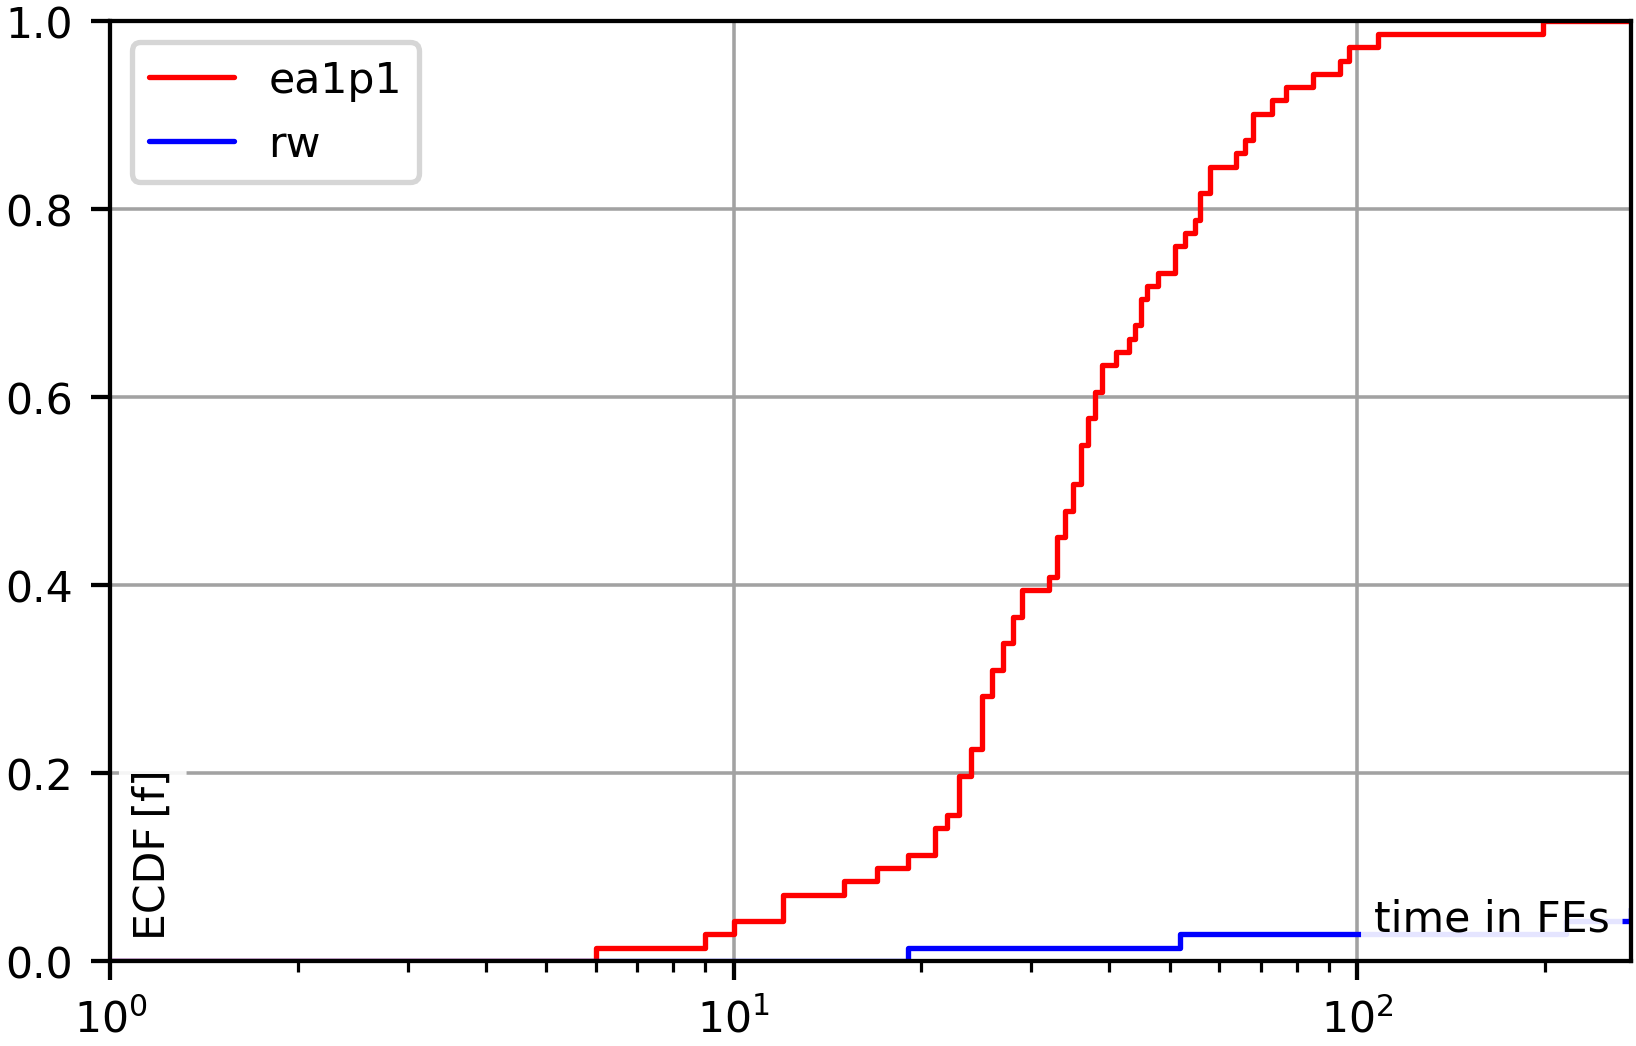
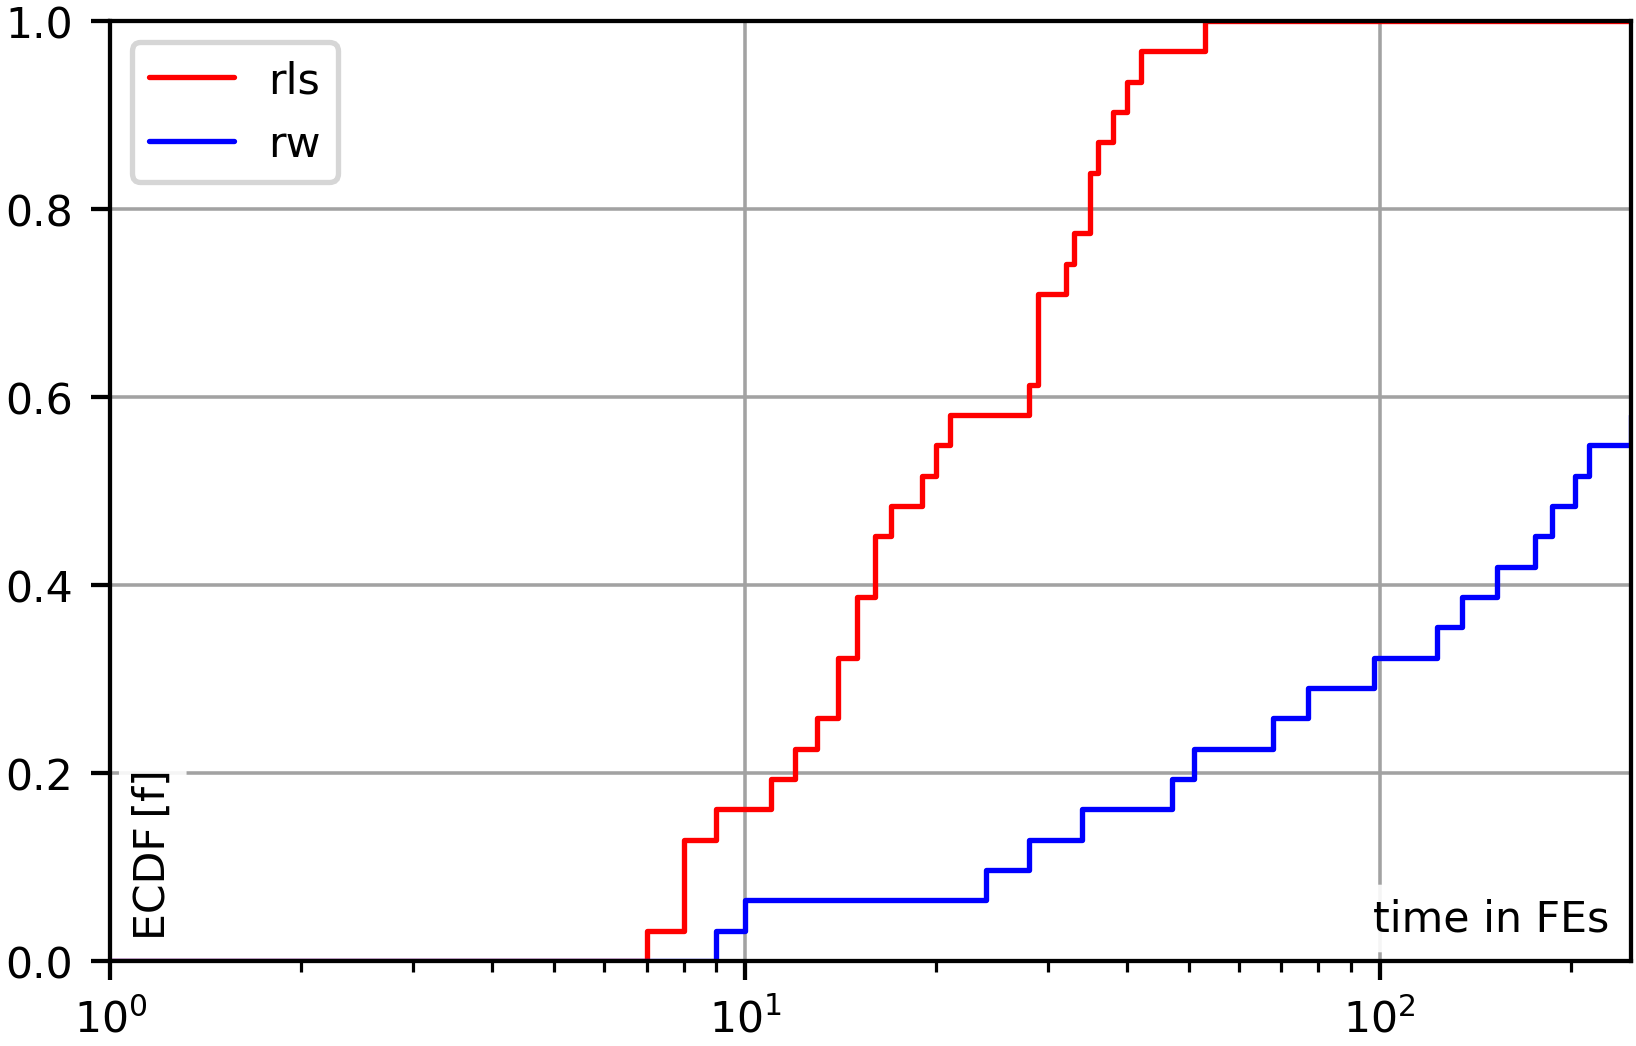
finished renaming (1+1)-EA to RLS

diff --git a/examples/progress_plot.py b/examples/progress_plot.py
@@ -144,7 +144,7 @@ with TempDir.create() as td:  # create temporary directory `td`
     # and different problems.
     # It will also automatically pick the labels of the axes and choose
     # that the horizontal axis (FEs) be log-scaled.
-    fig = create_figure()  # create an empty figure
+    fig = create_figure(width=4)  # create an empty, 4"-wide figure
     plot_progress(progresses=data,  # plot all the data
                   figure=fig)  # into the figure
     # Notice that save_figure returns a list of files that has been generated.
@@ -164,7 +164,7 @@ with TempDir.create() as td:  # create temporary directory `td`
     # This will still use both algorithms.
     # The system will again choose styles to make the curves distinguishable
     # and will log-scale the horizontal axes.
-    fig = create_figure()  # create an empty figure
+    fig = create_figure(width=4)  # create an empty, 4"-wide figure
     plot_progress(progresses=[r for r in data  # plot selection of data
                               if ("onemax" in r.instance)],  # only OneMax
                   figure=fig)  # plot into figure fig
@@ -178,7 +178,7 @@ with TempDir.create() as td:  # create temporary directory `td`
     # We now plot only the runs of the RLS, but for both problems.
     # The system will again choose styles to make the curves distinguishable
     # and will log-scale the horizontal axes.
-    fig = create_figure()  # create an empty figure
+    fig = create_figure(width=4)  # create an empty, 4"-wide figure
     plot_progress(progresses=[r for r in data if ("rls" in r.algorithm)],
                   figure=fig)
     # This time, we save three files: a svg, a pdf, and a png. Later all
@@ -198,7 +198,7 @@ with TempDir.create() as td:  # create temporary directory `td`
     StatRun.from_progress(source=list(data),  # iterate over _copy_ of data
                           statistics="mean",  # compute the mean f over FEs
                           consumer=data.append)  # and store to data list
-    fig = create_figure()  # create empty figure
+    fig = create_figure(width=4)  # create a 4"-wide, empty figure
     # We now plot the single runs AND the mean result quality over time into
     # the same diagram. Notice that the system will again automatically choose
     # an appropriate style.
@@ -209,7 +209,7 @@ with TempDir.create() as td:  # create temporary directory `td`
                              formats="svg"))
     del fig  # dispose figure
 
-    fig = create_figure()  # create empty figure
+    fig = create_figure(width=4)  # create a 4"-wide, empty figure
     # We now create the same plot again, but this time we do not log-scale
     # the horizontal (FEs) axis.
     plot_progress(progresses=data, figure=fig,
@@ -219,7 +219,7 @@ with TempDir.create() as td:  # create temporary directory `td`
                              dir_name=td, formats=("pdf", "svg")))
     del fig  # dispose figure
 
-    fig = create_figure()  # create empty figure
+    fig = create_figure(width=4)  # create an empty, 4"-wide figure
     # This time we only plot the arithmetic mean runs.
     # We generate a pdf and a svg.
     plot_progress(progresses=[d for d in data if isinstance(d, StatRun)],

diff --git a/examples/ecdf_plot.py b/examples/ecdf_plot.py
@@ -84,8 +84,8 @@ ns = lambda prc: False if prc is None else (  # noqa: E731
 # should we show the plots?
 SHOW_PLOTS_IN_BROWSER = not ns(psutil.Process(os.getppid()))
 
-# We try to solve only the 12-bit OneMax problem
-problems = [lambda: OneMax(12)]
+# We try to solve only the 8-bit OneMax problem
+problems = [lambda: OneMax(8)]
 
 
 def make_rls(problem) -> Execution:
@@ -102,7 +102,7 @@ def make_rls(problem) -> Execution:
         Op0Random(),  # starts with a random bit string and
         Op1MoverNflip(n=problem.n, m=1),  # flips each bit with p=1/n
         op1_is_default=True))  # don't include op1 in algorithm name str
-    ex.set_max_fes(100)  # permit 100 FEs
+    ex.set_max_fes(256)  # permit 256 FEs
     ex.set_log_improvements(True)  # log the progress!
     return ex
 
@@ -122,7 +122,7 @@ def make_random_walk(problem) -> Execution:
             Op0Random(),  # starts with a random bit string and
             Op1MoverNflip(n=problem.n, m=1),  # flips each bit with p=1/n
             op1_is_default=True))  # don't include op1 in algorithm name str
-    ex.set_max_fes(100)  # permit 100 FEs
+    ex.set_max_fes(256)  # permit 256 FEs
     ex.set_log_improvements(True)  # log the progress!
     return ex
 
@@ -154,7 +154,7 @@ with TempDir.create() as td:  # create temporary directory `td`
     # Plot the ECDF functions.
     # This function will automatically pick the labels of the axes and choose
     # that the horizontal axis (FEs) be log-scaled.
-    fig = create_figure()  # create an empty figure
+    fig = create_figure(width=4)  # create an empty, 4"-wide figure
     plot_ecdf(ecdfs=ecdf,  # plot all the data
               figure=fig)  # into the figure
     # Notice that save_figure returns a list of files that has been generated.
@@ -171,7 +171,7 @@ with TempDir.create() as td:  # create temporary directory `td`
     del fig  # dispose figure
 
     # Plot the ECDF functions, but this time do not log-scale the x-axis.
-    fig = create_figure()  # create an empty figure
+    fig = create_figure(width=4)  # create an empty, 4"-wide figure
     plot_ecdf(ecdfs=ecdf,  # plot all the data
               figure=fig,  # into the figure
               x_axis=AxisRanger.for_axis("FEs", log_scale=False))

diff --git a/examples/end_results_plot.py b/examples/end_results_plot.py
@@ -125,7 +125,7 @@ with TempDir.create() as td:  # create temporary directory `td`
 
     # Plot the end results in a scaled fashion: All objective values are
     # divided by the lower bound. Therefore, 1 is optimal.
-    fig = create_figure()  # create an empty figure
+    fig = create_figure(width=4)  # create an empty, 4"-wide figure
     plot_end_results(end_results=data,
                      figure=fig,
                      dimension="scaledF")
@@ -144,7 +144,7 @@ with TempDir.create() as td:  # create temporary directory `td`
 
     # Plot the end results in an un-scaled fashion: All objective values are
     # used as is. This makes the problems less comparable.
-    fig = create_figure()  # create an empty figure
+    fig = create_figure(width=4)  # create an empty, 4"-wide figure
     plot_end_results(end_results=data, figure=fig, dimension="plainF")
     files.extend(save_figure(fig=fig,  # store fig to a file
                              file_name="end_results",  # base name
@@ -153,7 +153,7 @@ with TempDir.create() as td:  # create temporary directory `td`
     del fig  # dispose figure
 
     # Now we compare the FE when the last improvement happened.
-    fig = create_figure()  # create an empty figure
+    fig = create_figure(width=4)  # create an empty, 4"-wide figure
     plot_end_results(end_results=data, figure=fig,
                      dimension="lastImprovementFE")
     files.extend(save_figure(fig=fig,  # store fig to a file
